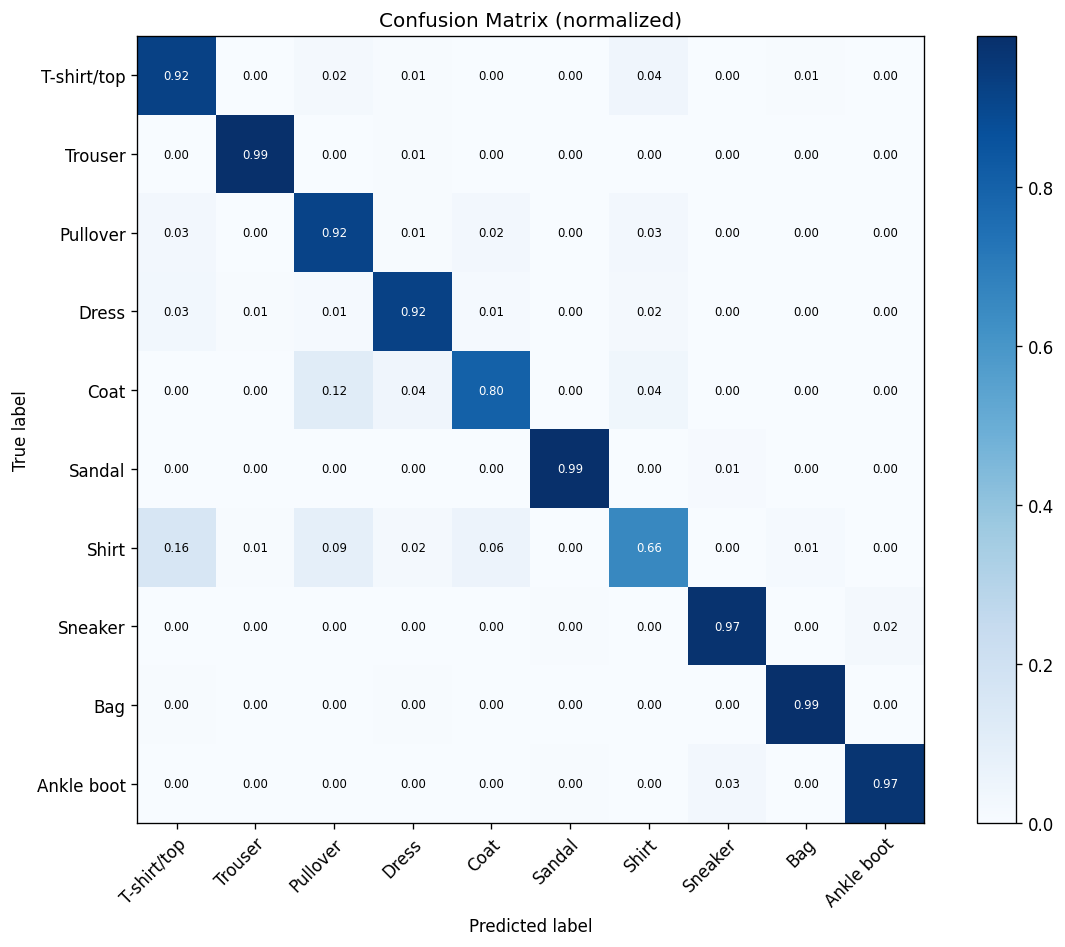
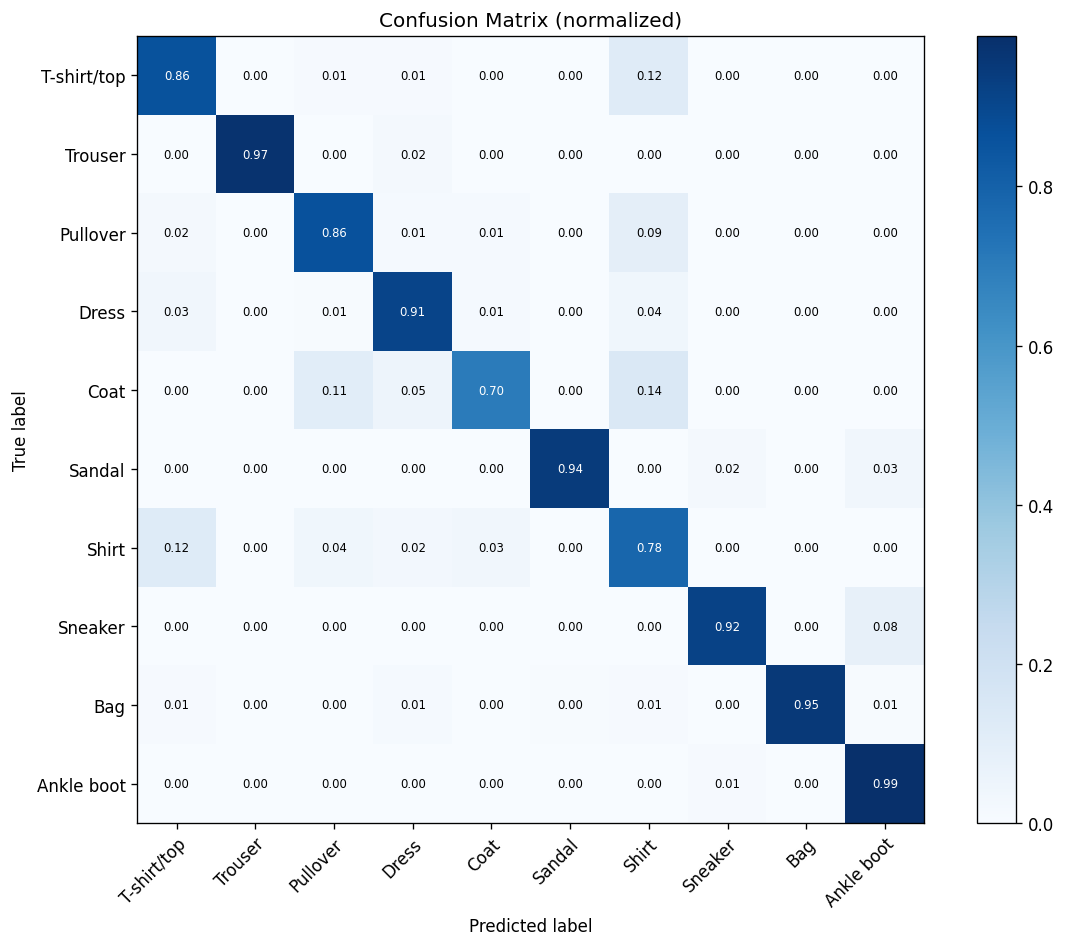
exp: cnn_dropout

diff --git a/dvclive/report.html b/dvclive/report.html
@@ -22,10 +22,10 @@
             <div style="display: flex;justify-content: center;">
                 <table>
 <thead>
-<tr><th>arch_config          </th><th>arch_name  </th><th style="text-align: right;">  epochs</th><th style="text-align: right;">  batch_size</th><th style="text-align: right;">   lr</th><th>optimizer  </th><th style="text-align: right;">  dropout</th><th style="text-align: right;">  total_params</th><th style="text-align: right;">  seed</th></tr>
+<tr><th>arch_config            </th><th>arch_name  </th><th style="text-align: right;">  epochs</th><th style="text-align: right;">  batch_size</th><th style="text-align: right;">   lr</th><th>optimizer  </th><th style="text-align: right;">  dropout</th><th style="text-align: right;">  total_params</th><th style="text-align: right;">  seed</th></tr>
 </thead>
 <tbody>
-<tr><td>configs\cnn_basic.yml</td><td>cnn_basic  </td><td style="text-align: right;">      10</td><td style="text-align: right;">          64</td><td style="text-align: right;">0.001</td><td>adam       </td><td style="text-align: right;">      0.3</td><td style="text-align: right;">        421642</td><td style="text-align: right;">    42</td></tr>
+<tr><td>configs\cnn_dropout.yml</td><td>cnn_dropout</td><td style="text-align: right;">      10</td><td style="text-align: right;">          64</td><td style="text-align: right;">0.001</td><td>adam       </td><td style="text-align: right;">      0.3</td><td style="text-align: right;">        118986</td><td style="text-align: right;">    42</td></tr>
 </tbody>
 </table>
             </div>
@@ -39,7 +39,7 @@
 <tr><th style="text-align: right;">  train.accuracy</th><th style="text-align: right;">  train.loss</th><th style="text-align: right;">  eval.accuracy</th><th style="text-align: right;">  eval.loss</th><th style="text-align: right;">  step</th><th style="text-align: right;">  final_train_accuracy</th><th style="text-align: right;">  final_val_accuracy</th><th style="text-align: right;">  final_train_loss</th><th style="text-align: right;">  final_val_loss</th></tr>
 </thead>
 <tbody>
-<tr><td style="text-align: right;">        0.949958</td><td style="text-align: right;">    0.134715</td><td style="text-align: right;">       0.917417</td><td style="text-align: right;">   0.256395</td><td style="text-align: right;">     9</td><td style="text-align: right;">                  0.95</td><td style="text-align: right;">              0.9174</td><td style="text-align: right;">            0.1347</td><td style="text-align: right;">          0.2564</td></tr>
+<tr><td style="text-align: right;">        0.942125</td><td style="text-align: right;">    0.160412</td><td style="text-align: right;">       0.893083</td><td style="text-align: right;">   0.327676</td><td style="text-align: right;">     9</td><td style="text-align: right;">                0.9421</td><td style="text-align: right;">              0.8931</td><td style="text-align: right;">            0.1604</td><td style="text-align: right;">          0.3277</td></tr>
 </tbody>
 </table>
             </div>
@@ -47,7 +47,7 @@
 
     <div id = "static_eval_accuracy">
         <script type = "text/javascript">
-            var spec = {"$schema": "https://vega.github.io/schema/vega-lite/v5.json", "data": {"values": [{"step": "0", "accuracy": "0.875", "rev": "workspace"}, {"step": "1", "accuracy": "0.8951666951179504", "rev": "workspace"}, {"step": "2", "accuracy": "0.9045833349227905", "rev": "workspace"}, {"step": "3", "accuracy": "0.909583330154419", "rev": "workspace"}, {"step": "4", "accuracy": "0.9132500290870667", "rev": "workspace"}, {"step": "5", "accuracy": "0.9129999876022339", "rev": "workspace"}, {"step": "6", "accuracy": "0.9129166603088379", "rev": "workspace"}, {"step": "7", "accuracy": "0.9148333072662354", "rev": "workspace"}, {"step": "8", "accuracy": "0.9194999933242798", "rev": "workspace"}, {"step": "9", "accuracy": "0.9174166917800903", "rev": "workspace"}]}, "title": {"text": "eval/accuracy", "anchor": "middle"}, "width": 300, "height": 300, "params": [{"name": "smooth", "value": 0.001, "bind": {"input": "range", "min": 0.001, "max": 1, "step": 0.001}}], "encoding": {"x": {"field": "step", "type": "quantitative", "title": "step"}, "color": {"field": "rev", "scale": {"domain": ["workspace"], "range": ["#945dd6"]}}, "strokeDash": {}}, "layer": [{"layer": [{"params": [{"name": "grid", "select": "interval", "bind": "scales"}], "mark": "line"}, {"transform": [{"filter": {"param": "hover", "empty": false}}], "mark": "point"}], "encoding": {"y": {"field": "accuracy", "type": "quantitative", "title": "accuracy", "scale": {"zero": false}}, "color": {"field": "rev", "type": "nominal"}}, "transform": [{"loess": "accuracy", "on": "step", "groupby": ["rev"], "bandwidth": {"signal": "smooth"}}]}, {"mark": {"type": "line", "opacity": 0.2}, "encoding": {"x": {"field": "step", "type": "quantitative", "title": "step"}, "y": {"field": "accuracy", "type": "quantitative", "title": "accuracy", "scale": {"zero": false}}, "color": {"field": "rev", "type": "nominal"}}}, {"mark": {"type": "circle", "size": 10}, "encoding": {"x": {"aggregate": "max", "field": "step", "type": "quantitative", "title": "step"}, "y": {"aggregate": {"argmax": "step"}, "field": "accuracy", "type": "quantitative", "title": "accuracy", "scale": {"zero": false}}, "color": {"field": "rev", "type": "nominal"}}}, {"transform": [{"calculate": "datum.rev", "as": "pivot_field"}, {"pivot": "pivot_field", "op": "mean", "value": "accuracy", "groupby": ["step"]}], "mark": {"type": "rule", "tooltip": {"content": "data"}, "stroke": "grey"}, "encoding": {"opacity": {"condition": {"value": 0.3, "param": "hover", "empty": false}, "value": 0}}, "params": [{"name": "hover", "select": {"type": "point", "fields": ["step"], "nearest": true, "on": "mouseover", "clear": "mouseout"}}]}]};
+            var spec = {"$schema": "https://vega.github.io/schema/vega-lite/v5.json", "data": {"values": [{"step": "0", "accuracy": "0.827833354473114", "rev": "workspace"}, {"step": "1", "accuracy": "0.8734999895095825", "rev": "workspace"}, {"step": "2", "accuracy": "0.8765833377838135", "rev": "workspace"}, {"step": "3", "accuracy": "0.8758333325386047", "rev": "workspace"}, {"step": "4", "accuracy": "0.8949999809265137", "rev": "workspace"}, {"step": "5", "accuracy": "0.8989166617393494", "rev": "workspace"}, {"step": "6", "accuracy": "0.8852499723434448", "rev": "workspace"}, {"step": "7", "accuracy": "0.9160000085830688", "rev": "workspace"}, {"step": "8", "accuracy": "0.8998333215713501", "rev": "workspace"}, {"step": "9", "accuracy": "0.8930833339691162", "rev": "workspace"}]}, "title": {"text": "eval/accuracy", "anchor": "middle"}, "width": 300, "height": 300, "params": [{"name": "smooth", "value": 0.001, "bind": {"input": "range", "min": 0.001, "max": 1, "step": 0.001}}], "encoding": {"x": {"field": "step", "type": "quantitative", "title": "step"}, "color": {"field": "rev", "scale": {"domain": ["workspace"], "range": ["#945dd6"]}}, "strokeDash": {}}, "layer": [{"layer": [{"params": [{"name": "grid", "select": "interval", "bind": "scales"}], "mark": "line"}, {"transform": [{"filter": {"param": "hover", "empty": false}}], "mark": "point"}], "encoding": {"y": {"field": "accuracy", "type": "quantitative", "title": "accuracy", "scale": {"zero": false}}, "color": {"field": "rev", "type": "nominal"}}, "transform": [{"loess": "accuracy", "on": "step", "groupby": ["rev"], "bandwidth": {"signal": "smooth"}}]}, {"mark": {"type": "line", "opacity": 0.2}, "encoding": {"x": {"field": "step", "type": "quantitative", "title": "step"}, "y": {"field": "accuracy", "type": "quantitative", "title": "accuracy", "scale": {"zero": false}}, "color": {"field": "rev", "type": "nominal"}}}, {"mark": {"type": "circle", "size": 10}, "encoding": {"x": {"aggregate": "max", "field": "step", "type": "quantitative", "title": "step"}, "y": {"aggregate": {"argmax": "step"}, "field": "accuracy", "type": "quantitative", "title": "accuracy", "scale": {"zero": false}}, "color": {"field": "rev", "type": "nominal"}}}, {"transform": [{"calculate": "datum.rev", "as": "pivot_field"}, {"pivot": "pivot_field", "op": "mean", "value": "accuracy", "groupby": ["step"]}], "mark": {"type": "rule", "tooltip": {"content": "data"}, "stroke": "grey"}, "encoding": {"opacity": {"condition": {"value": 0.3, "param": "hover", "empty": false}, "value": 0}}, "params": [{"name": "hover", "select": {"type": "point", "fields": ["step"], "nearest": true, "on": "mouseover", "clear": "mouseout"}}]}]};
             vegaEmbed('#static_eval_accuracy', spec);
         </script>
     </div>
@@ -55,7 +55,7 @@
 
     <div id = "static_eval_loss">
         <script type = "text/javascript">
-            var spec = {"$schema": "https://vega.github.io/schema/vega-lite/v5.json", "data": {"values": [{"step": "0", "loss": "0.3335598409175873", "rev": "workspace"}, {"step": "1", "loss": "0.2773546278476715", "rev": "workspace"}, {"step": "2", "loss": "0.25498196482658386", "rev": "workspace"}, {"step": "3", "loss": "0.2407914400100708", "rev": "workspace"}, {"step": "4", "loss": "0.23094888031482697", "rev": "workspace"}, {"step": "5", "loss": "0.23607636988162994", "rev": "workspace"}, {"step": "6", "loss": "0.2509179413318634", "rev": "workspace"}, {"step": "7", "loss": "0.24153149127960205", "rev": "workspace"}, {"step": "8", "loss": "0.23760581016540527", "rev": "workspace"}, {"step": "9", "loss": "0.2563950717449188", "rev": "workspace"}]}, "title": {"text": "eval/loss", "anchor": "middle"}, "width": 300, "height": 300, "params": [{"name": "smooth", "value": 0.001, "bind": {"input": "range", "min": 0.001, "max": 1, "step": 0.001}}], "encoding": {"x": {"field": "step", "type": "quantitative", "title": "step"}, "color": {"field": "rev", "scale": {"domain": ["workspace"], "range": ["#945dd6"]}}, "strokeDash": {}}, "layer": [{"layer": [{"params": [{"name": "grid", "select": "interval", "bind": "scales"}], "mark": "line"}, {"transform": [{"filter": {"param": "hover", "empty": false}}], "mark": "point"}], "encoding": {"y": {"field": "loss", "type": "quantitative", "title": "loss", "scale": {"zero": false}}, "color": {"field": "rev", "type": "nominal"}}, "transform": [{"loess": "loss", "on": "step", "groupby": ["rev"], "bandwidth": {"signal": "smooth"}}]}, {"mark": {"type": "line", "opacity": 0.2}, "encoding": {"x": {"field": "step", "type": "quantitative", "title": "step"}, "y": {"field": "loss", "type": "quantitative", "title": "loss", "scale": {"zero": false}}, "color": {"field": "rev", "type": "nominal"}}}, {"mark": {"type": "circle", "size": 10}, "encoding": {"x": {"aggregate": "max", "field": "step", "type": "quantitative", "title": "step"}, "y": {"aggregate": {"argmax": "step"}, "field": "loss", "type": "quantitative", "title": "loss", "scale": {"zero": false}}, "color": {"field": "rev", "type": "nominal"}}}, {"transform": [{"calculate": "datum.rev", "as": "pivot_field"}, {"pivot": "pivot_field", "op": "mean", "value": "loss", "groupby": ["step"]}], "mark": {"type": "rule", "tooltip": {"content": "data"}, "stroke": "grey"}, "encoding": {"opacity": {"condition": {"value": 0.3, "param": "hover", "empty": false}, "value": 0}}, "params": [{"name": "hover", "select": {"type": "point", "fields": ["step"], "nearest": true, "on": "mouseover", "clear": "mouseout"}}]}]};
+            var spec = {"$schema": "https://vega.github.io/schema/vega-lite/v5.json", "data": {"values": [{"step": "0", "loss": "0.5077785849571228", "rev": "workspace"}, {"step": "1", "loss": "0.38495418429374695", "rev": "workspace"}, {"step": "2", "loss": "0.36212795972824097", "rev": "workspace"}, {"step": "3", "loss": "0.3703952133655548", "rev": "workspace"}, {"step": "4", "loss": "0.29278579354286194", "rev": "workspace"}, {"step": "5", "loss": "0.29217028617858887", "rev": "workspace"}, {"step": "6", "loss": "0.3475185036659241", "rev": "workspace"}, {"step": "7", "loss": "0.24177931249141693", "rev": "workspace"}, {"step": "8", "loss": "0.2994220554828644", "rev": "workspace"}, {"step": "9", "loss": "0.3276756703853607", "rev": "workspace"}]}, "title": {"text": "eval/loss", "anchor": "middle"}, "width": 300, "height": 300, "params": [{"name": "smooth", "value": 0.001, "bind": {"input": "range", "min": 0.001, "max": 1, "step": 0.001}}], "encoding": {"x": {"field": "step", "type": "quantitative", "title": "step"}, "color": {"field": "rev", "scale": {"domain": ["workspace"], "range": ["#945dd6"]}}, "strokeDash": {}}, "layer": [{"layer": [{"params": [{"name": "grid", "select": "interval", "bind": "scales"}], "mark": "line"}, {"transform": [{"filter": {"param": "hover", "empty": false}}], "mark": "point"}], "encoding": {"y": {"field": "loss", "type": "quantitative", "title": "loss", "scale": {"zero": false}}, "color": {"field": "rev", "type": "nominal"}}, "transform": [{"loess": "loss", "on": "step", "groupby": ["rev"], "bandwidth": {"signal": "smooth"}}]}, {"mark": {"type": "line", "opacity": 0.2}, "encoding": {"x": {"field": "step", "type": "quantitative", "title": "step"}, "y": {"field": "loss", "type": "quantitative", "title": "loss", "scale": {"zero": false}}, "color": {"field": "rev", "type": "nominal"}}}, {"mark": {"type": "circle", "size": 10}, "encoding": {"x": {"aggregate": "max", "field": "step", "type": "quantitative", "title": "step"}, "y": {"aggregate": {"argmax": "step"}, "field": "loss", "type": "quantitative", "title": "loss", "scale": {"zero": false}}, "color": {"field": "rev", "type": "nominal"}}}, {"transform": [{"calculate": "datum.rev", "as": "pivot_field"}, {"pivot": "pivot_field", "op": "mean", "value": "loss", "groupby": ["step"]}], "mark": {"type": "rule", "tooltip": {"content": "data"}, "stroke": "grey"}, "encoding": {"opacity": {"condition": {"value": 0.3, "param": "hover", "empty": false}, "value": 0}}, "params": [{"name": "hover", "select": {"type": "point", "fields": ["step"], "nearest": true, "on": "mouseover", "clear": "mouseout"}}]}]};
             vegaEmbed('#static_eval_loss', spec);
         </script>
     </div>
@@ -63,7 +63,7 @@
 
     <div id = "static_train_accuracy">
         <script type = "text/javascript">
-            var spec = {"$schema": "https://vega.github.io/schema/vega-lite/v5.json", "data": {"values": [{"step": "0", "accuracy": "0.8208125233650208", "rev": "workspace"}, {"step": "1", "accuracy": "0.883104145526886", "rev": "workspace"}, {"step": "2", "accuracy": "0.8998749852180481", "rev": "workspace"}, {"step": "3", "accuracy": "0.9113541841506958", "rev": "workspace"}, {"step": "4", "accuracy": "0.9197708368301392", "rev": "workspace"}, {"step": "5", "accuracy": "0.9276458621025085", "rev": "workspace"}, {"step": "6", "accuracy": "0.9324583411216736", "rev": "workspace"}, {"step": "7", "accuracy": "0.9382708072662354", "rev": "workspace"}, {"step": "8", "accuracy": "0.9436041712760925", "rev": "workspace"}, {"step": "9", "accuracy": "0.949958324432373", "rev": "workspace"}]}, "title": {"text": "train/accuracy", "anchor": "middle"}, "width": 300, "height": 300, "params": [{"name": "smooth", "value": 0.001, "bind": {"input": "range", "min": 0.001, "max": 1, "step": 0.001}}], "encoding": {"x": {"field": "step", "type": "quantitative", "title": "step"}, "color": {"field": "rev", "scale": {"domain": ["workspace"], "range": ["#945dd6"]}}, "strokeDash": {}}, "layer": [{"layer": [{"params": [{"name": "grid", "select": "interval", "bind": "scales"}], "mark": "line"}, {"transform": [{"filter": {"param": "hover", "empty": false}}], "mark": "point"}], "encoding": {"y": {"field": "accuracy", "type": "quantitative", "title": "accuracy", "scale": {"zero": false}}, "color": {"field": "rev", "type": "nominal"}}, "transform": [{"loess": "accuracy", "on": "step", "groupby": ["rev"], "bandwidth": {"signal": "smooth"}}]}, {"mark": {"type": "line", "opacity": 0.2}, "encoding": {"x": {"field": "step", "type": "quantitative", "title": "step"}, "y": {"field": "accuracy", "type": "quantitative", "title": "accuracy", "scale": {"zero": false}}, "color": {"field": "rev", "type": "nominal"}}}, {"mark": {"type": "circle", "size": 10}, "encoding": {"x": {"aggregate": "max", "field": "step", "type": "quantitative", "title": "step"}, "y": {"aggregate": {"argmax": "step"}, "field": "accuracy", "type": "quantitative", "title": "accuracy", "scale": {"zero": false}}, "color": {"field": "rev", "type": "nominal"}}}, {"transform": [{"calculate": "datum.rev", "as": "pivot_field"}, {"pivot": "pivot_field", "op": "mean", "value": "accuracy", "groupby": ["step"]}], "mark": {"type": "rule", "tooltip": {"content": "data"}, "stroke": "grey"}, "encoding": {"opacity": {"condition": {"value": 0.3, "param": "hover", "empty": false}, "value": 0}}, "params": [{"name": "hover", "select": {"type": "point", "fields": ["step"], "nearest": true, "on": "mouseover", "clear": "mouseout"}}]}]};
+            var spec = {"$schema": "https://vega.github.io/schema/vega-lite/v5.json", "data": {"values": [{"step": "0", "accuracy": "0.7904375195503235", "rev": "workspace"}, {"step": "1", "accuracy": "0.8772083520889282", "rev": "workspace"}, {"step": "2", "accuracy": "0.898062527179718", "rev": "workspace"}, {"step": "3", "accuracy": "0.9081458449363708", "rev": "workspace"}, {"step": "4", "accuracy": "0.9166250228881836", "rev": "workspace"}, {"step": "5", "accuracy": "0.9243333339691162", "rev": "workspace"}, {"step": "6", "accuracy": "0.9292083382606506", "rev": "workspace"}, {"step": "7", "accuracy": "0.932645857334137", "rev": "workspace"}, {"step": "8", "accuracy": "0.9382500052452087", "rev": "workspace"}, {"step": "9", "accuracy": "0.9421250224113464", "rev": "workspace"}]}, "title": {"text": "train/accuracy", "anchor": "middle"}, "width": 300, "height": 300, "params": [{"name": "smooth", "value": 0.001, "bind": {"input": "range", "min": 0.001, "max": 1, "step": 0.001}}], "encoding": {"x": {"field": "step", "type": "quantitative", "title": "step"}, "color": {"field": "rev", "scale": {"domain": ["workspace"], "range": ["#945dd6"]}}, "strokeDash": {}}, "layer": [{"layer": [{"params": [{"name": "grid", "select": "interval", "bind": "scales"}], "mark": "line"}, {"transform": [{"filter": {"param": "hover", "empty": false}}], "mark": "point"}], "encoding": {"y": {"field": "accuracy", "type": "quantitative", "title": "accuracy", "scale": {"zero": false}}, "color": {"field": "rev", "type": "nominal"}}, "transform": [{"loess": "accuracy", "on": "step", "groupby": ["rev"], "bandwidth": {"signal": "smooth"}}]}, {"mark": {"type": "line", "opacity": 0.2}, "encoding": {"x": {"field": "step", "type": "quantitative", "title": "step"}, "y": {"field": "accuracy", "type": "quantitative", "title": "accuracy", "scale": {"zero": false}}, "color": {"field": "rev", "type": "nominal"}}}, {"mark": {"type": "circle", "size": 10}, "encoding": {"x": {"aggregate": "max", "field": "step", "type": "quantitative", "title": "step"}, "y": {"aggregate": {"argmax": "step"}, "field": "accuracy", "type": "quantitative", "title": "accuracy", "scale": {"zero": false}}, "color": {"field": "rev", "type": "nominal"}}}, {"transform": [{"calculate": "datum.rev", "as": "pivot_field"}, {"pivot": "pivot_field", "op": "mean", "value": "accuracy", "groupby": ["step"]}], "mark": {"type": "rule", "tooltip": {"content": "data"}, "stroke": "grey"}, "encoding": {"opacity": {"condition": {"value": 0.3, "param": "hover", "empty": false}, "value": 0}}, "params": [{"name": "hover", "select": {"type": "point", "fields": ["step"], "nearest": true, "on": "mouseover", "clear": "mouseout"}}]}]};
             vegaEmbed('#static_train_accuracy', spec);
         </script>
     </div>
@@ -71,7 +71,7 @@
 
     <div id = "static_train_loss">
         <script type = "text/javascript">
-            var spec = {"$schema": "https://vega.github.io/schema/vega-lite/v5.json", "data": {"values": [{"step": "0", "loss": "0.5011374354362488", "rev": "workspace"}, {"step": "1", "loss": "0.322610467672348", "rev": "workspace"}, {"step": "2", "loss": "0.27638131380081177", "rev": "workspace"}, {"step": "3", "loss": "0.24409258365631104", "rev": "workspace"}, {"step": "4", "loss": "0.22119396924972534", "rev": "workspace"}, {"step": "5", "loss": "0.19762563705444336", "rev": "workspace"}, {"step": "6", "loss": "0.18116721510887146", "rev": "workspace"}, {"step": "7", "loss": "0.16448329389095306", "rev": "workspace"}, {"step": "8", "loss": "0.15079441666603088", "rev": "workspace"}, {"step": "9", "loss": "0.13471509516239166", "rev": "workspace"}]}, "title": {"text": "train/loss", "anchor": "middle"}, "width": 300, "height": 300, "params": [{"name": "smooth", "value": 0.001, "bind": {"input": "range", "min": 0.001, "max": 1, "step": 0.001}}], "encoding": {"x": {"field": "step", "type": "quantitative", "title": "step"}, "color": {"field": "rev", "scale": {"domain": ["workspace"], "range": ["#945dd6"]}}, "strokeDash": {}}, "layer": [{"layer": [{"params": [{"name": "grid", "select": "interval", "bind": "scales"}], "mark": "line"}, {"transform": [{"filter": {"param": "hover", "empty": false}}], "mark": "point"}], "encoding": {"y": {"field": "loss", "type": "quantitative", "title": "loss", "scale": {"zero": false}}, "color": {"field": "rev", "type": "nominal"}}, "transform": [{"loess": "loss", "on": "step", "groupby": ["rev"], "bandwidth": {"signal": "smooth"}}]}, {"mark": {"type": "line", "opacity": 0.2}, "encoding": {"x": {"field": "step", "type": "quantitative", "title": "step"}, "y": {"field": "loss", "type": "quantitative", "title": "loss", "scale": {"zero": false}}, "color": {"field": "rev", "type": "nominal"}}}, {"mark": {"type": "circle", "size": 10}, "encoding": {"x": {"aggregate": "max", "field": "step", "type": "quantitative", "title": "step"}, "y": {"aggregate": {"argmax": "step"}, "field": "loss", "type": "quantitative", "title": "loss", "scale": {"zero": false}}, "color": {"field": "rev", "type": "nominal"}}}, {"transform": [{"calculate": "datum.rev", "as": "pivot_field"}, {"pivot": "pivot_field", "op": "mean", "value": "loss", "groupby": ["step"]}], "mark": {"type": "rule", "tooltip": {"content": "data"}, "stroke": "grey"}, "encoding": {"opacity": {"condition": {"value": 0.3, "param": "hover", "empty": false}, "value": 0}}, "params": [{"name": "hover", "select": {"type": "point", "fields": ["step"], "nearest": true, "on": "mouseover", "clear": "mouseout"}}]}]};
+            var spec = {"$schema": "https://vega.github.io/schema/vega-lite/v5.json", "data": {"values": [{"step": "0", "loss": "0.599484920501709", "rev": "workspace"}, {"step": "1", "loss": "0.354133665561676", "rev": "workspace"}, {"step": "2", "loss": "0.2949082553386688", "rev": "workspace"}, {"step": "3", "loss": "0.26416897773742676", "rev": "workspace"}, {"step": "4", "loss": "0.23982515931129456", "rev": "workspace"}, {"step": "5", "loss": "0.2187224179506302", "rev": "workspace"}, {"step": "6", "loss": "0.20084260404109955", "rev": "workspace"}, {"step": "7", "loss": "0.18778511881828308", "rev": "workspace"}, {"step": "8", "loss": "0.17573903501033783", "rev": "workspace"}, {"step": "9", "loss": "0.16041193902492523", "rev": "workspace"}]}, "title": {"text": "train/loss", "anchor": "middle"}, "width": 300, "height": 300, "params": [{"name": "smooth", "value": 0.001, "bind": {"input": "range", "min": 0.001, "max": 1, "step": 0.001}}], "encoding": {"x": {"field": "step", "type": "quantitative", "title": "step"}, "color": {"field": "rev", "scale": {"domain": ["workspace"], "range": ["#945dd6"]}}, "strokeDash": {}}, "layer": [{"layer": [{"params": [{"name": "grid", "select": "interval", "bind": "scales"}], "mark": "line"}, {"transform": [{"filter": {"param": "hover", "empty": false}}], "mark": "point"}], "encoding": {"y": {"field": "loss", "type": "quantitative", "title": "loss", "scale": {"zero": false}}, "color": {"field": "rev", "type": "nominal"}}, "transform": [{"loess": "loss", "on": "step", "groupby": ["rev"], "bandwidth": {"signal": "smooth"}}]}, {"mark": {"type": "line", "opacity": 0.2}, "encoding": {"x": {"field": "step", "type": "quantitative", "title": "step"}, "y": {"field": "loss", "type": "quantitative", "title": "loss", "scale": {"zero": false}}, "color": {"field": "rev", "type": "nominal"}}}, {"mark": {"type": "circle", "size": 10}, "encoding": {"x": {"aggregate": "max", "field": "step", "type": "quantitative", "title": "step"}, "y": {"aggregate": {"argmax": "step"}, "field": "loss", "type": "quantitative", "title": "loss", "scale": {"zero": false}}, "color": {"field": "rev", "type": "nominal"}}}, {"transform": [{"calculate": "datum.rev", "as": "pivot_field"}, {"pivot": "pivot_field", "op": "mean", "value": "loss", "groupby": ["step"]}], "mark": {"type": "rule", "tooltip": {"content": "data"}, "stroke": "grey"}, "encoding": {"opacity": {"condition": {"value": 0.3, "param": "hover", "empty": false}, "value": 0}}, "params": [{"name": "hover", "select": {"type": "point", "fields": ["step"], "nearest": true, "on": "mouseover", "clear": "mouseout"}}]}]};
             vegaEmbed('#static_train_loss', spec);
         </script>
     </div>
